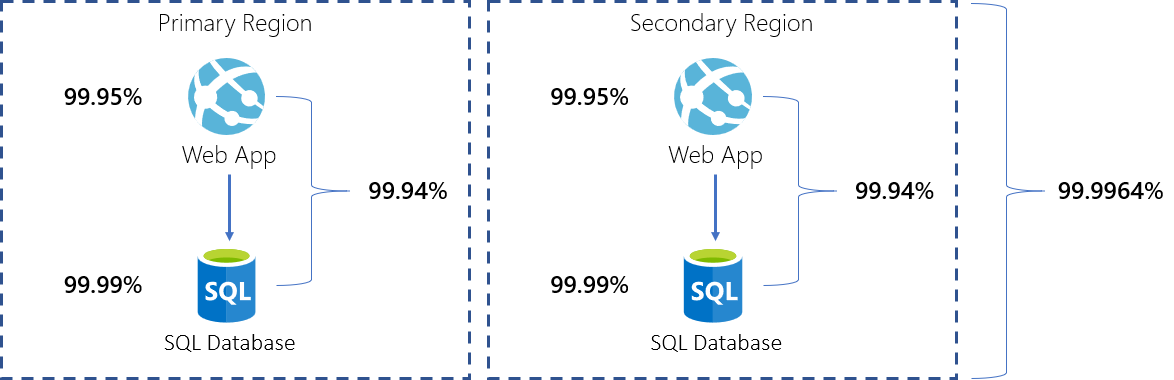
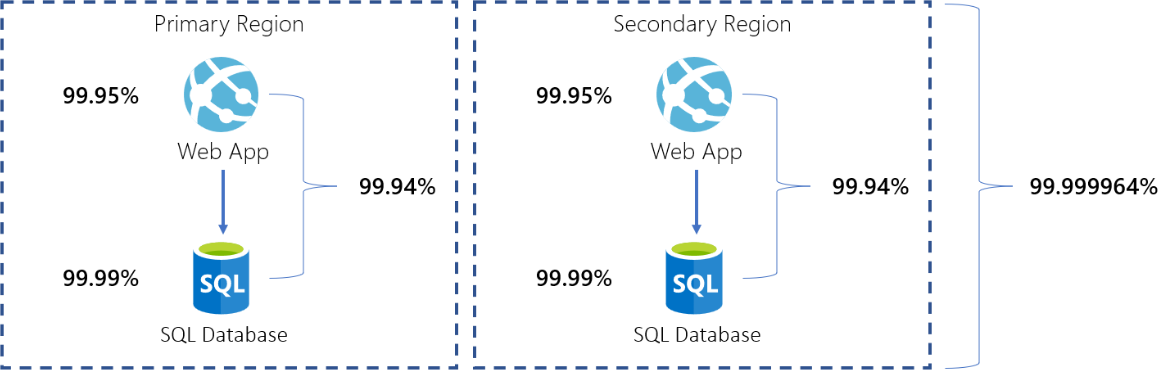
typo in calculation

diff --git a/content/posts/Calculate the availability and SLA for your Azure solution/index.md b/content/posts/Calculate the availability and SLA for your Azure solution/index.md
@@ -74,7 +74,7 @@ Here, we used the definition when a service is not available and the *multiplica
 
 ![Multiple regions](multiple_regions.png)
 
-> $P(Primary\ or\ Secondary\ is\ up)\ =\ 1\ -\ (1\ -\ P(Primary\ is\ up))\ \cdot\ (1\ -\ P(Secondary\ is\ up))\\\\\ =\ 1\ -\ (1\ -\ 99.94)\ \cdot\ (1\ -\ 99.94)\\\\\ =\ 1\ -\ 0.06 \cdot\ 0.06\\\\\ =\ 1\ -\ 0.000036\\\\\ =\ 99.9964$
+> $P(Primary\ or\ Secondary\ is\ up)\ =\ 1\ -\ (1\ -\ P(Primary\ is\ up))\ \cdot\ (1\ -\ P(Secondary\ is\ up))\\\\\ =\ 1\ -\ (1\ -\ 99.94)\ \cdot\ (1\ -\ 99.94)\\\\\ =\ 1\ -\ 0.06 \cdot\ 0.06\\\\\ =\ 1\ -\ 0.000036\\\\\ =\ 99.999964$
 
 We can boost the availability of a solution by implementing a multi-region failover. This increases the complexity and cost of the solution.
 
